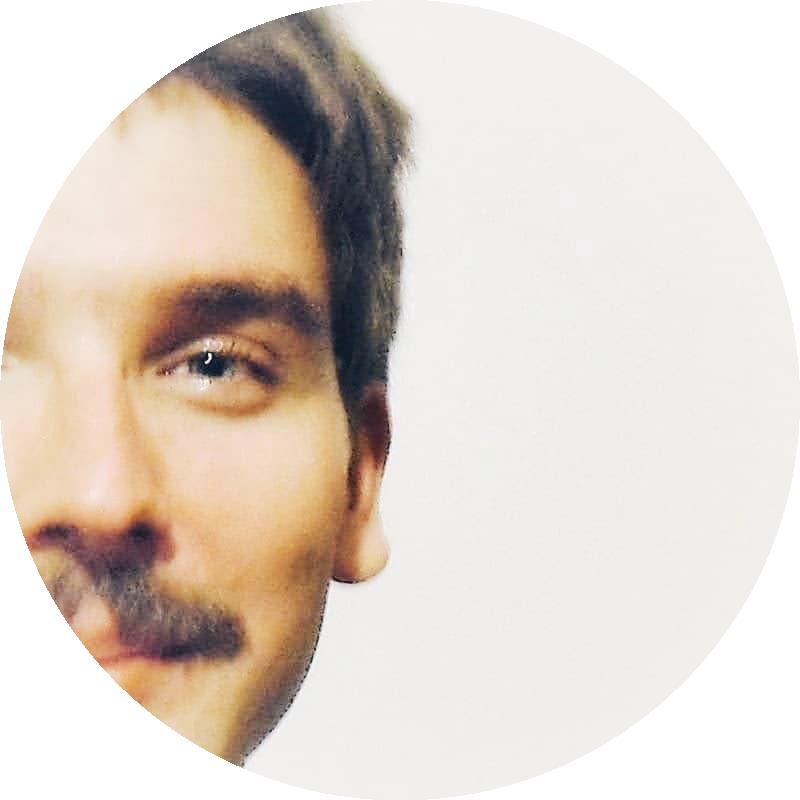
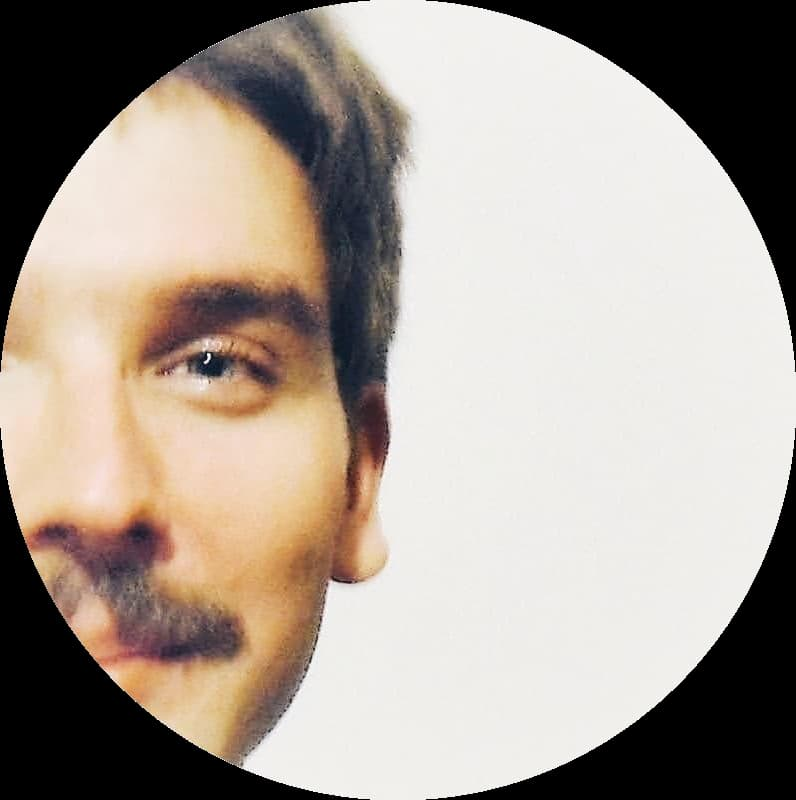
Refactor slightly for Open Graph protocol

diff --git a/themes/mytheme/layouts/partials/head.html b/themes/mytheme/layouts/partials/head.html
@@ -1,8 +1,10 @@
 <head>
     <meta charset="UTF-8">
     <meta name="viewport" content="width=device-width, initial-scale=1.0">
-    <meta name="author" content="{{ .Title }}">
-    <meta name="description" content="{{ .Page.Description }}">
+    <meta property="og:author" content="{{ .Site.Title }}">
+    <meta property="og:title" content="{{ .Title }}">
+    <meta property="og:description" content="{{ .Page.Description }}">
+    <meta name="description" content="{{ .Description }}">
     {{ if .Params.SocialImage }}
     <meta property="og:image" content="{{ .Page.Permalink }}{{ .Params.SocialImage }}">
     {{ else }}

diff --git a/themes/mytheme/layouts/index.html b/themes/mytheme/layouts/index.html
@@ -1,7 +1,7 @@
 {{ define "main" }}
     <main>
       <section class="content">
-        <img class="profile-img" src="{{ .Site.BaseURL }}profile_photo.jpg" alt="Profile photo">
+        <img class="profile-img" src="{{ .Site.BaseURL }}profile_photo_rounded.jpg" alt="Profile photo">
         <h1>{{ .Site.Title }}</h1>
         {{.Content}}
       </section>

diff --git a/content/posts/projektoveuceni/index.cs.md b/content/posts/projektoveuceni/index.cs.md
@@ -1,14 +1,17 @@
 ---
 title: "Projektové učení"
 date: 2021-08-19
+description: "Když jsem se začal učit programovat, naštěstí jsem neměl nouzi o menší projekty, na kterých si věci zkoušet"
+socialImage: "energy-mix-status.jpg"
 tags: ["programovani", "energetika"]
+
 ---
 
 Když jsem se začal učit programovat, naštěstí jsem neměl nouzi o menší projekty, na kterých si věci zkoušet. Nejvíc se osvědčilo nějak to propojit s prací, kdy se hodilo scrapovat data nebo je čistit v Pythonu a Pandas. Většinou ale nejde o projekty, které se dají zveřejnit a ani není důvod.
 
 Mám rád bot [Emoji Meadow](https://twitter.com/emojimeadow) nebo [trains botting](https://twitter.com/choochoobot). Hezky zpestří časovou osu Twitteru. Napadlo mě proto vytvořit malou připomínku toho, z čeho vyrábíme v Česku elektřinu – bota [Energetický mix](https://github.com/jandolezal/energy-mix), který tvítuje palivový mix domácí elektřiny vyrobené za předešlou hodinu.
 
-{{< tweet 1428315319777460227 >}}
+{{< tweet user="jandolezal" id="1428315319777460227" >}}
 
 Člověk si na tom vyzkouší dotazování na Entsoe API, prokousání se její [dokumentací](https://transparency.entsoe.eu/content/static_content/Static%20content/web%20api/Guide.html#_psrtype), parsování XML (pro mě největší oříšek) nebo musí vhodně [zaokrouhlit](https://en.wikipedia.org/wiki/Largest_remainder_method) podíly jednotlivých technologií jako je uhlí, jádro nebo voda, aby mu vždycky daly dohromady rovnou stovku. Nemluvě o přemýšlení nad strukturou projektu, psaním testů, co s proměnnými prostředí nebo sdílení výsledku v [klubu](https://junior.guru/club/) Junior Guru a práci se zpětnou vazbou.
 

diff --git a/content/posts/python-rulez/index.cs.md b/content/posts/python-rulez/index.cs.md
@@ -2,7 +2,7 @@
 title: "Python rulez!"
 date: 2021-09-26
 description: "Tohle měl být původně jeden odstavec do klubu Junior Guru. Chtěl jsem psát o tom, jak jsem se tento týden seznamoval s API od sluzby Datawrapper."
-socialImage: "map.png"
+socialImage: "map.jpg"
 tags: ["programovani", "data"]
 ---
 

diff --git a/content/posts/programovani.cs.md b/content/posts/programovani.cs.md
@@ -1,6 +1,7 @@
 ---
 title: "Programování je příležitost"
 date: 2021-08-18
+description: "Líbí se mi úvodní text na stráce Junior Guru, kde Honza Javorek píše, že programování je příležitost."
 tags: ["programovani"]
 ---
 
